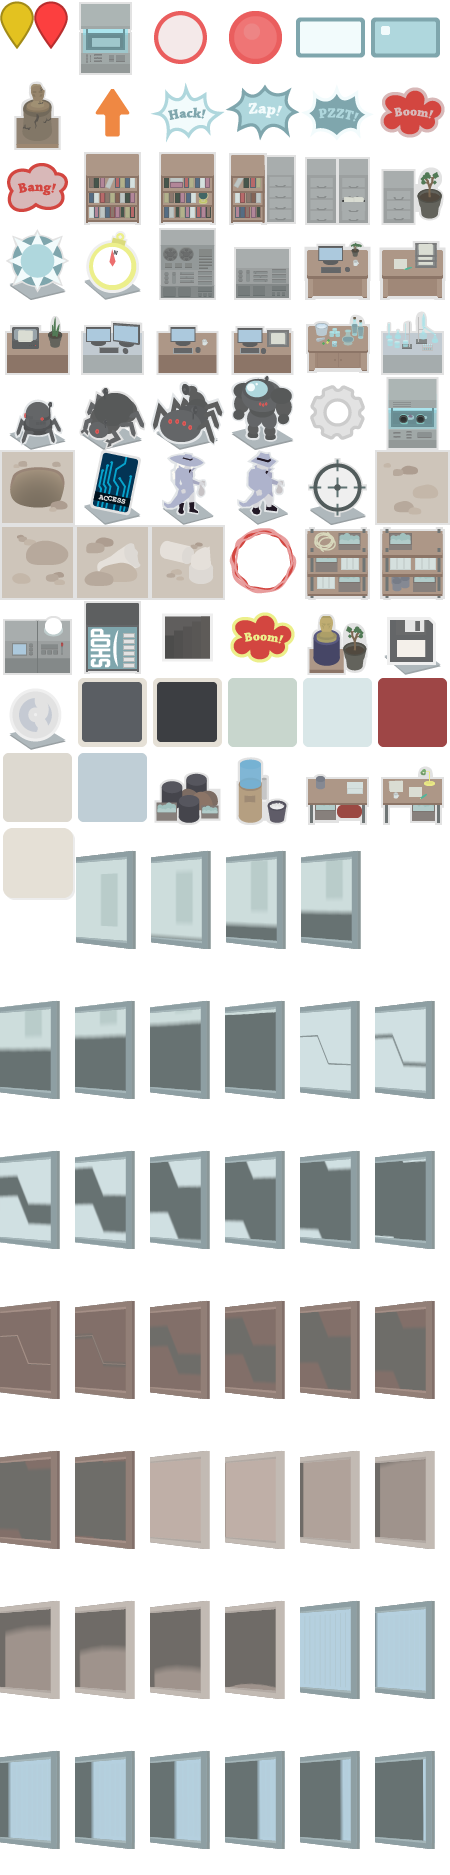
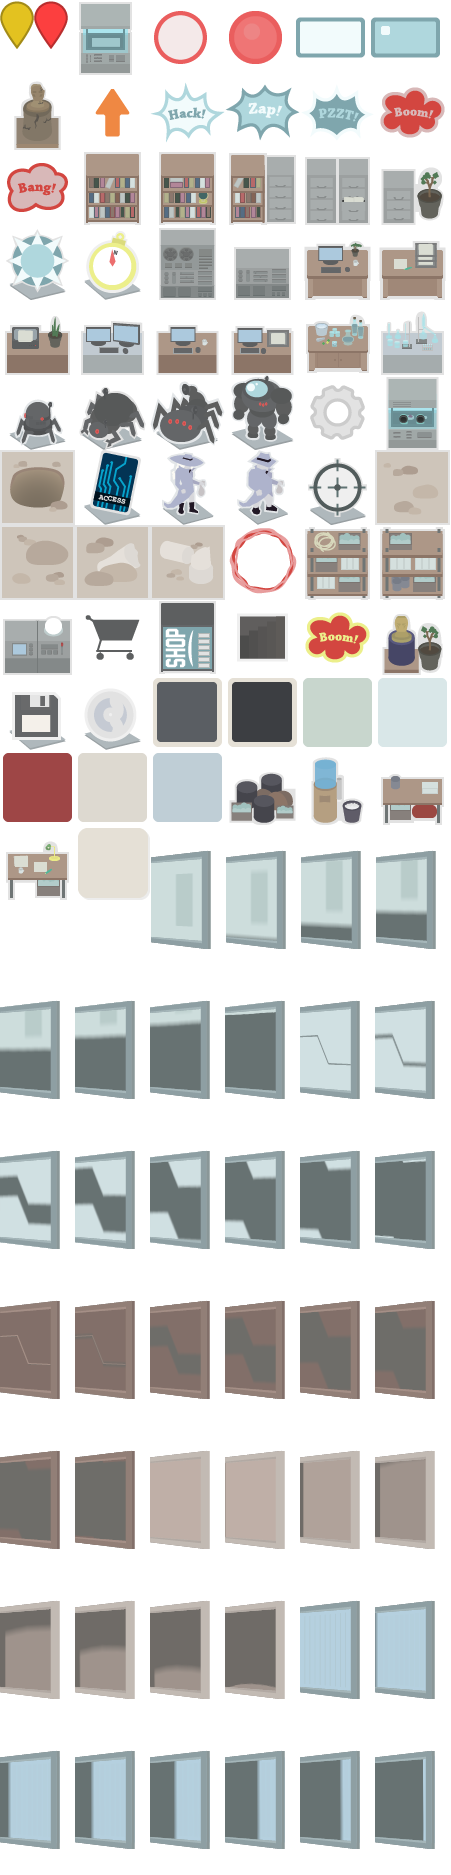
Shop button in UI.

diff --git a/src/js/game-objects/hud/shop-toggle.ts b/src/js/game-objects/hud/shop-toggle.ts
@@ -1,0 +1,148 @@
+import EventProxy from "../../helpers/event-proxy";
+import store, { GameStore } from "../../store";
+import GAME_MODES from "../game-manager/events";
+import MobXProxy from "../../helpers/mobx-proxy";
+import { fractionToX, fractionToY } from "../../game-dimensions";
+import DEPTHS from "../depths";
+
+export default class ShopToggle {
+    scene: Phaser.Scene;
+    gameStore: GameStore;
+    mobProxy: MobXProxy;
+    proxy: EventProxy;
+
+    isInteractive: boolean;
+    disabled: boolean;
+
+    title: Phaser.GameObjects.Text;
+    sprite: Phaser.GameObjects.Sprite;
+    text: Phaser.GameObjects.Text;
+    background: Phaser.GameObjects.Shape;
+    container: Phaser.GameObjects.Container;
+
+    tween: Phaser.Tweens.Tween;
+
+    /**
+     * @param {Phaser.Scene} scene
+     */
+    constructor(scene: Phaser.Scene, gameStore: GameStore) {
+        this.scene = scene;
+        this.gameStore = gameStore;
+        const x = fractionToX(0.12);
+        const y = fractionToY(0.48);
+
+        const bgPadding = { x: 4, y: 25 };
+        const bgWidth = 96;
+        const iconSpacing = 6;
+
+        this.title = scene.add
+            .text(bgWidth / 2, bgPadding.y, "Shop", { fontSize: "20px", color: "#000000", fontStyle: "bold" })
+            .setOrigin(0.5, 0);
+
+        this.sprite = scene.add
+            .sprite(bgWidth / 2, this.title.y + this.title.height + iconSpacing, "all-assets", "shop-button")
+            .setOrigin(0.5, 0);
+
+        const bgHeight = this.sprite.y + this.sprite.height + bgPadding.y;
+        this.background = scene.add
+            .rectangle(0, 0, bgWidth, bgHeight, 0xffffff)
+            .setStrokeStyle(8, 0x585e5e, 1)
+            .setOrigin(0, 0);
+
+        this.container = scene.add
+            .container(x, y, [
+                this.background,
+                this.title,
+                this.sprite
+            ])
+            .setDepth(DEPTHS.HUD);
+
+        this.enableInteractive();
+
+        this.mobProxy = new MobXProxy();
+        this.mobProxy.observe(gameStore, "gameState", () => {
+            if (!this.disabled) {
+                if (gameStore.gameState === GAME_MODES.MENU_MODE) {
+                    this.disableInteractive();
+                } else {
+                    this.enableInteractive();
+                }
+            }
+        });
+
+        this.proxy = new EventProxy();
+        this.proxy.on(scene.events, "shutdown", this.destroy, this);
+        this.proxy.on(scene.events, "destroy", this.destroy, this);
+    }
+
+    enableInteractive() {
+        if (this.isInteractive) return;
+        this.isInteractive = true;
+        this.sprite.setInteractive();
+        this.sprite.on("pointerover", this.onHoverStart);
+        this.sprite.on("pointerout", this.onHoverEnd);
+        this.sprite.on("pointerdown", this.onPointerDown);
+        this.sprite.on("pointerup", this.onPointerUp);
+        this.sprite.setAlpha(1);
+    }
+
+    disableInteractive() {
+        if (!this.isInteractive) return;
+        this.isInteractive = false;
+        this.sprite.disableInteractive();
+        this.sprite.off("pointerover", this.onHoverStart);
+        this.sprite.off("pointerout", this.onHoverEnd);
+        this.sprite.off("pointerdown", this.onPointerDown);
+        this.sprite.off("pointerup", this.onPointerUp);
+        this.sprite.setAlpha(0.5);
+    }
+
+    onHoverStart = () => {
+        if (this.tween) this.tween.stop();
+        this.tween = this.scene.add.tween({
+            targets: this.sprite,
+            scaleX: 1.05,
+            scaleY: 1.05,
+            duration: 100,
+        });
+    };
+
+    onHoverEnd = () => {
+        if (this.tween) this.tween.stop();
+        this.tween = this.scene.add.tween({
+            targets: this.sprite,
+            scaleX: 1,
+            scaleY: 1,
+            duration: 100,
+        });
+    };
+
+    onPointerDown = () => {
+        if (this.tween) this.tween.stop();
+        this.tween = this.scene.add.tween({
+            targets: this.sprite,
+            scaleX: 0.95,
+            scaleY: 0.95,
+            opacity: 0.95,
+            duration: 100,
+        });
+        this.gameStore.setShopOpen(true);
+    };
+
+    onPointerUp = () => {
+        if (this.tween) this.tween.stop();
+        this.tween = this.scene.add.tween({
+            targets: this.sprite,
+            scaleX: 1.05,
+            scaleY: 1.05,
+            opacity: 1.0,
+            duration: 100,
+        });
+    };
+
+    destroy() {
+        if (this.tween) this.tween.stop();
+        this.sprite.destroy();
+        this.proxy.removeAll();
+    }
+}

diff --git a/src/js/game-objects/hud/tech-indicator.ts b/src/js/game-objects/hud/tech-indicator.ts
@@ -2,19 +2,32 @@ import { autorun } from "mobx";
 import EventProxy from "../../helpers/event-proxy";
 import { fractionToX, fractionToY } from "../../game-dimensions";
 import DEPTHS from "../depths";
+import { GameStore } from "../../store";
 
 const textStyle = {
-  fill: "#585e5e",
+  color: "#585e5e",
   align: "center",
-  fontSize: 30,
+  fontSize: "30px",
   fontStyle: "bold",
 };
 
 export default class TechIndicator {
+  scene: Phaser.Scene;
+  gameStore: GameStore;
+  
+  title: Phaser.GameObjects.Text;
+  sprite: Phaser.GameObjects.Sprite;
+  text: Phaser.GameObjects.Text;
+  background: Phaser.GameObjects.Shape;
+  container: Phaser.GameObjects.Container;
+
+  proxy: EventProxy;
+  private dispose: any;
+
   /**
    * @param {Phaser.Scene} scene
    */
-  constructor(scene, gameStore) {
+  constructor(scene: Phaser.Scene, gameStore: GameStore) {
     this.scene = scene;
 
     const bgPadding = { x: 4, y: 25 };
@@ -22,7 +35,7 @@ export default class TechIndicator {
     const iconSpacing = 6;
 
     this.title = scene.add
-      .text(bgWidth / 2, bgPadding.y, "Tech", { fontSize: 20, fill: "#000000", fontStyle: "bold" })
+      .text(bgWidth / 2, bgPadding.y, "Tech", { fontSize: "20px", color: "#000000", fontStyle: "bold" })
       .setOrigin(0.5, 0);
 
     this.sprite = scene.add
@@ -40,7 +53,7 @@ export default class TechIndicator {
       .setOrigin(0, 0);
 
     this.container = scene.add
-      .container(fractionToX(0.12), fractionToY(0.76), [
+      .container(fractionToX(0.12), fractionToY(0.8), [
         this.background,
         this.title,
         this.sprite,
@@ -48,7 +61,7 @@ export default class TechIndicator {
       ])
       .setDepth(DEPTHS.HUD);
 
-    this.updateText(gameStore.goldCount, true);
+    this.updateText(gameStore.goldCount);
     this.dispose = autorun(() => this.updateText(gameStore.goldCount));
 
     this.proxy = new EventProxy();
@@ -56,8 +69,8 @@ export default class TechIndicator {
     this.proxy.on(scene.events, "destroy", this.destroy, this);
   }
 
-  updateText(goldCount) {
-    this.text.setText(goldCount);
+  updateText(goldCount: number) {
+    this.text.setText(`${goldCount}`);
   }
 
   destroy() {

diff --git a/src/js/scenes/main-scene.ts b/src/js/scenes/main-scene.ts
@@ -9,9 +9,10 @@ import store from "../store/index";
 import ToastManager from "../game-objects/hud/toast-manager";
 import Shop from "../game-objects/hud/shop";
 import AmmoIndicator from "../game-objects/hud/ammo-indicator";
+import ShopToggle from "../game-objects/hud/shop-toggle";
 
 const titleStyle = {
-  align: "center",
+  align: "left",
   color: "#ffffff",
   fontSize: "30px",
   fontStyle: "bold",
@@ -28,7 +29,7 @@ export default class MainScene extends Scene {
     const toastManager = new ToastManager(this);
     const gameManager = new GameManager(this, player, toastManager);
     const gameTitle = this.add
-      .text(width * 0.91, height * 0.92, "SpyWare\n(or whatever...)", titleStyle)
+      .text(width * 0.9, height * 0.48, "SpyWare\n(or whatever...)", titleStyle)
       .setOrigin(0.5, 0);
 
     new Shop(this, store, toastManager);
@@ -37,5 +38,6 @@ export default class MainScene extends Scene {
     new AmmoIndicator(this, store);
     new PauseToggle(this, store);
     new LevelIndicator(this, store);
+    new ShopToggle(this, store);
   }
 }

diff --git a/src/js/game-objects/hud/ammo-indicator.ts b/src/js/game-objects/hud/ammo-indicator.ts
@@ -64,7 +64,7 @@ export default class AmmoIndicator {
       .setOrigin(0, 0);
 
     this.container = scene.add
-      .container(fractionToX(0.12), fractionToY(0.03), [this.background, this.text, ...this.icons])
+      .container(fractionToX(0.83), fractionToY(0.64), [this.background, this.text, ...this.icons])
       .setDepth(DEPTHS.HUD);
 
     this.updateText(gameStore.playerAmmo);

diff --git a/src/js/game-objects/hud/inventory.ts b/src/js/game-objects/hud/inventory.ts
@@ -91,7 +91,7 @@ export default class InventoryMenu {
       .setOrigin(0, 0);
 
     this.container = scene.add
-      .container(fractionToX(0.12), fractionToY(0.42), [
+      .container(fractionToX(0.12), fractionToY(0.03), [
         this.background,
         this.text,
         ...this.icons.map((icon) => icon.sprite),
